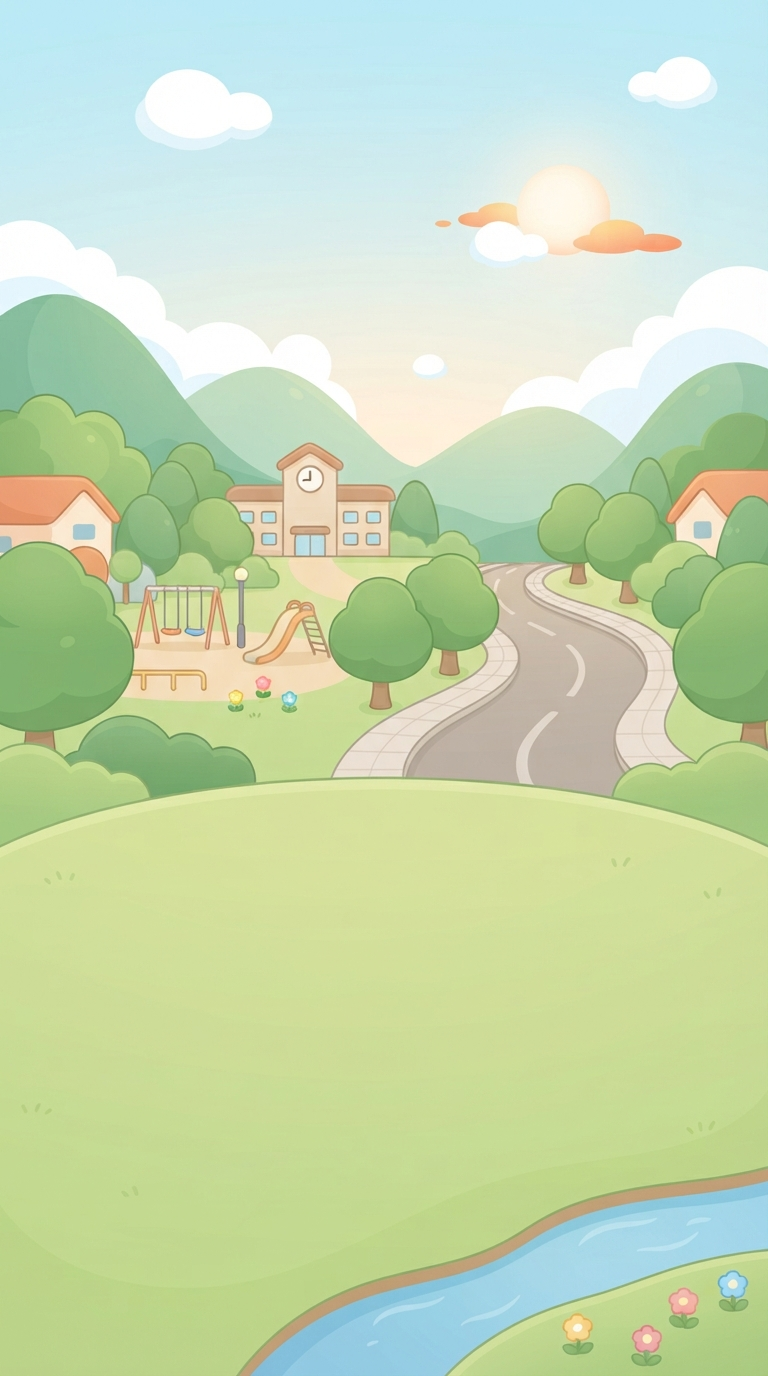
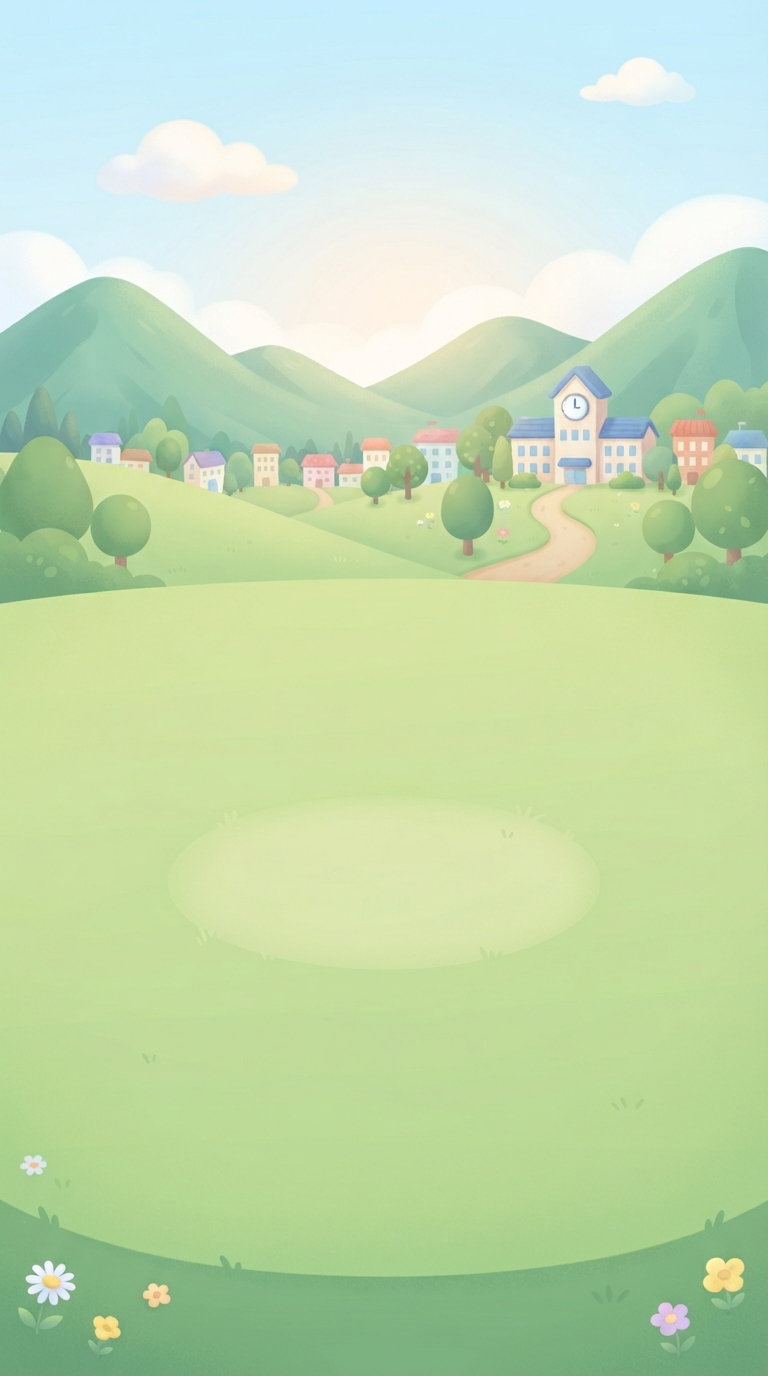
fix(home): うんちくんが浮いて見えないよう足元の影と背景の芝生を直す
- 3D の描画領域を広げて接地影が端で切れないようにする
- 背景を、中央に立ち位置のある広い芝生の絵に差し替える

Refs #258

diff --git a/apps/native/src/features/title/components/home-companion.tsx b/apps/native/src/features/title/components/home-companion.tsx
@@ -7,6 +7,9 @@ import { Poopm3DSolo } from "@/features/poopm-3d/components/poopm-3d-solo";
 
 // PoopmSprite は幅 size に対して高さ size * 260 / 207。3D も同じ箱に収めて入れ替え時にレイアウトが動かないようにする。
 const SPRITE_HEIGHT_RATIO = 260 / 207;
+// 足元の接地影は足裏より手前（画面の下側）へ広がるので、箱ぴったりだとキャンバス端で切れる。
+// 描画領域だけ広げる（モデルの見かけの大きさは変わらない）。
+const SHADOW_OVERSCAN = 1.35;
 const IDLE_MOTION = { name: "idle", nonce: 0 } as const;
 
 // GL コンテキストの生成失敗など描画中の例外で、ホーム全体を落とさず 2D に戻すための境界。
@@ -41,7 +44,7 @@ export function HomeCompanion({ appearance, size }: { appearance: PoopmAppearanc
       {!hasFailed && (
         <View pointerEvents="none" style={[StyleSheet.absoluteFill, !isReady && styles.hidden]}>
           <FallbackBoundary onError={handleFail}>
-            <Poopm3DSolo appearance={appearance} motion={IDLE_MOTION} onReady={handleReady} onLoadError={handleFail} />
+            <Poopm3DSolo appearance={appearance} motion={IDLE_MOTION} overscan={SHADOW_OVERSCAN} onReady={handleReady} onLoadError={handleFail} />
           </FallbackBoundary>
         </View>
       )}
